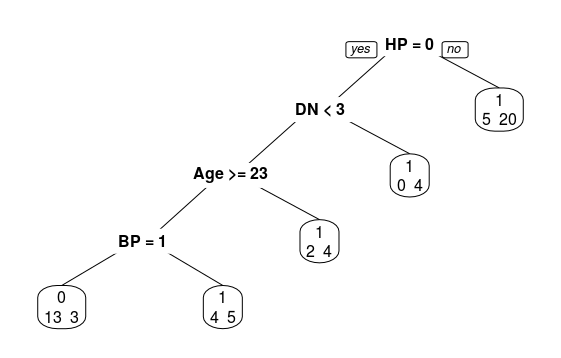
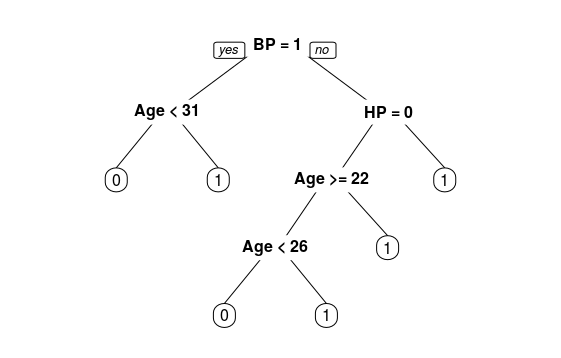
up rapport

diff --git a/projet/rapport.md b/projet/rapport.md
@@ -12,10 +12,14 @@ Nous avons dans un premier temps analysé le contenu du dataset, puis nous avons
 
 Nous avons ensuite commencé à tester différents modèles, avec pour objectif de déterminer le meilleur modèle, c'est-à-dire celui nous donnant les prédictions les plus précises possibles.
 
-Le nombre d'observations présentes dans le dataset de départ est relativement petit (80 observations). On le divise en plus par 5 pour le k-fold (64 observations d'entrainnement et 16 observations de test). Enfin, 5 variables sont à prendre en compte, ce qui augmente encore le taux d'erreur des différents modèles.
+Le nombre d'observations présentes dans le dataset de départ est relativement petit (80 observations). On le divise en plus par 5 pour le k-fold (64 observations d'entraînement et 16 observations de test). Enfin, 5 variables sont à prendre en compte, ce qui augmente encore le taux d'erreur des différents modèles.
 
 ## Arbre de décision (CART)
+Nous avons construit un arbre de décision en suivant le modèle CART grâce au package *rpart* en R. À partir des données, on obtient alors, par exemple, l'arbre suivant :
+
 ![CART Tree](./cartTree.png)
+
+On observe alors, pour l'exemple ci-dessus (l'arbre peut varier selon les données contenues dans *data_train*, celles-ci étant peu nombreuses), que si la pression sanguine est normale, l'âge (supérieur ou non à 31) détermine la décision finale. Dans le cas contraire, s'il y a un problème cardiaque, une césarienne est nécessaire, sinon c'est à nouveau l'âge qui entre en compte pour prédire la valeur de la variable *Caesarian*.
 
 ## Random Forest
 ![Random Forest Results](./varImp.png)
